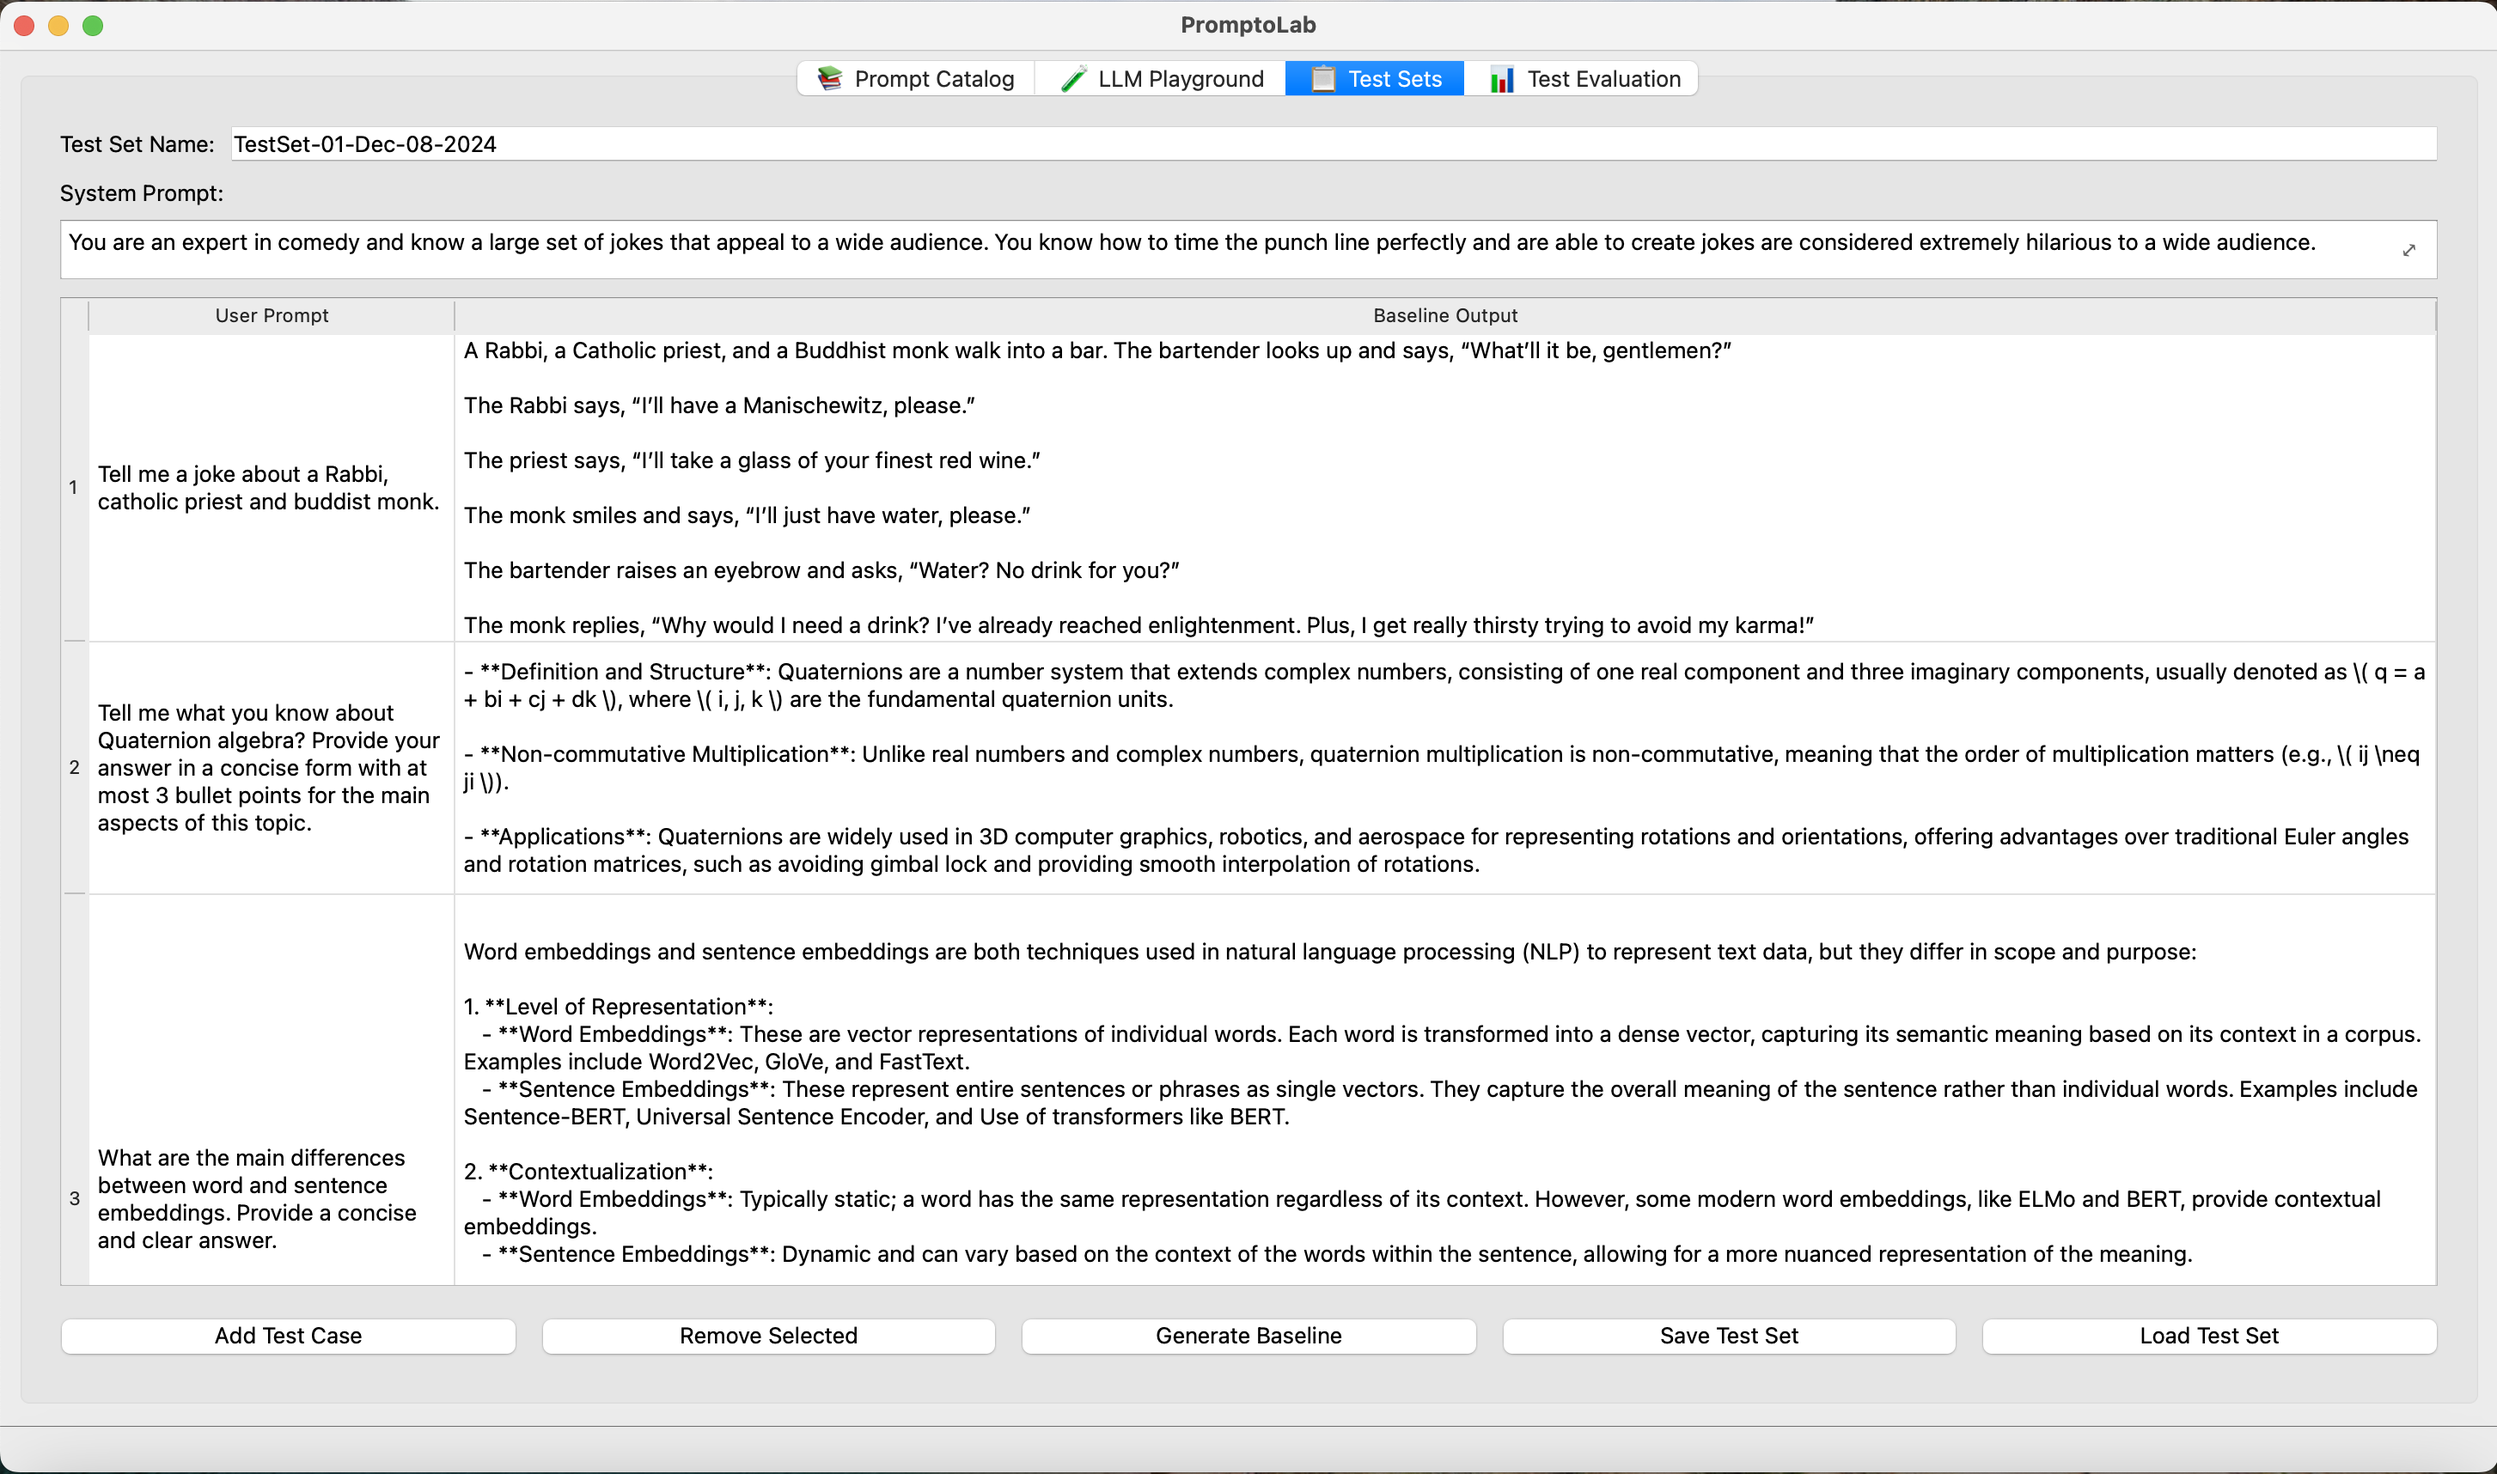
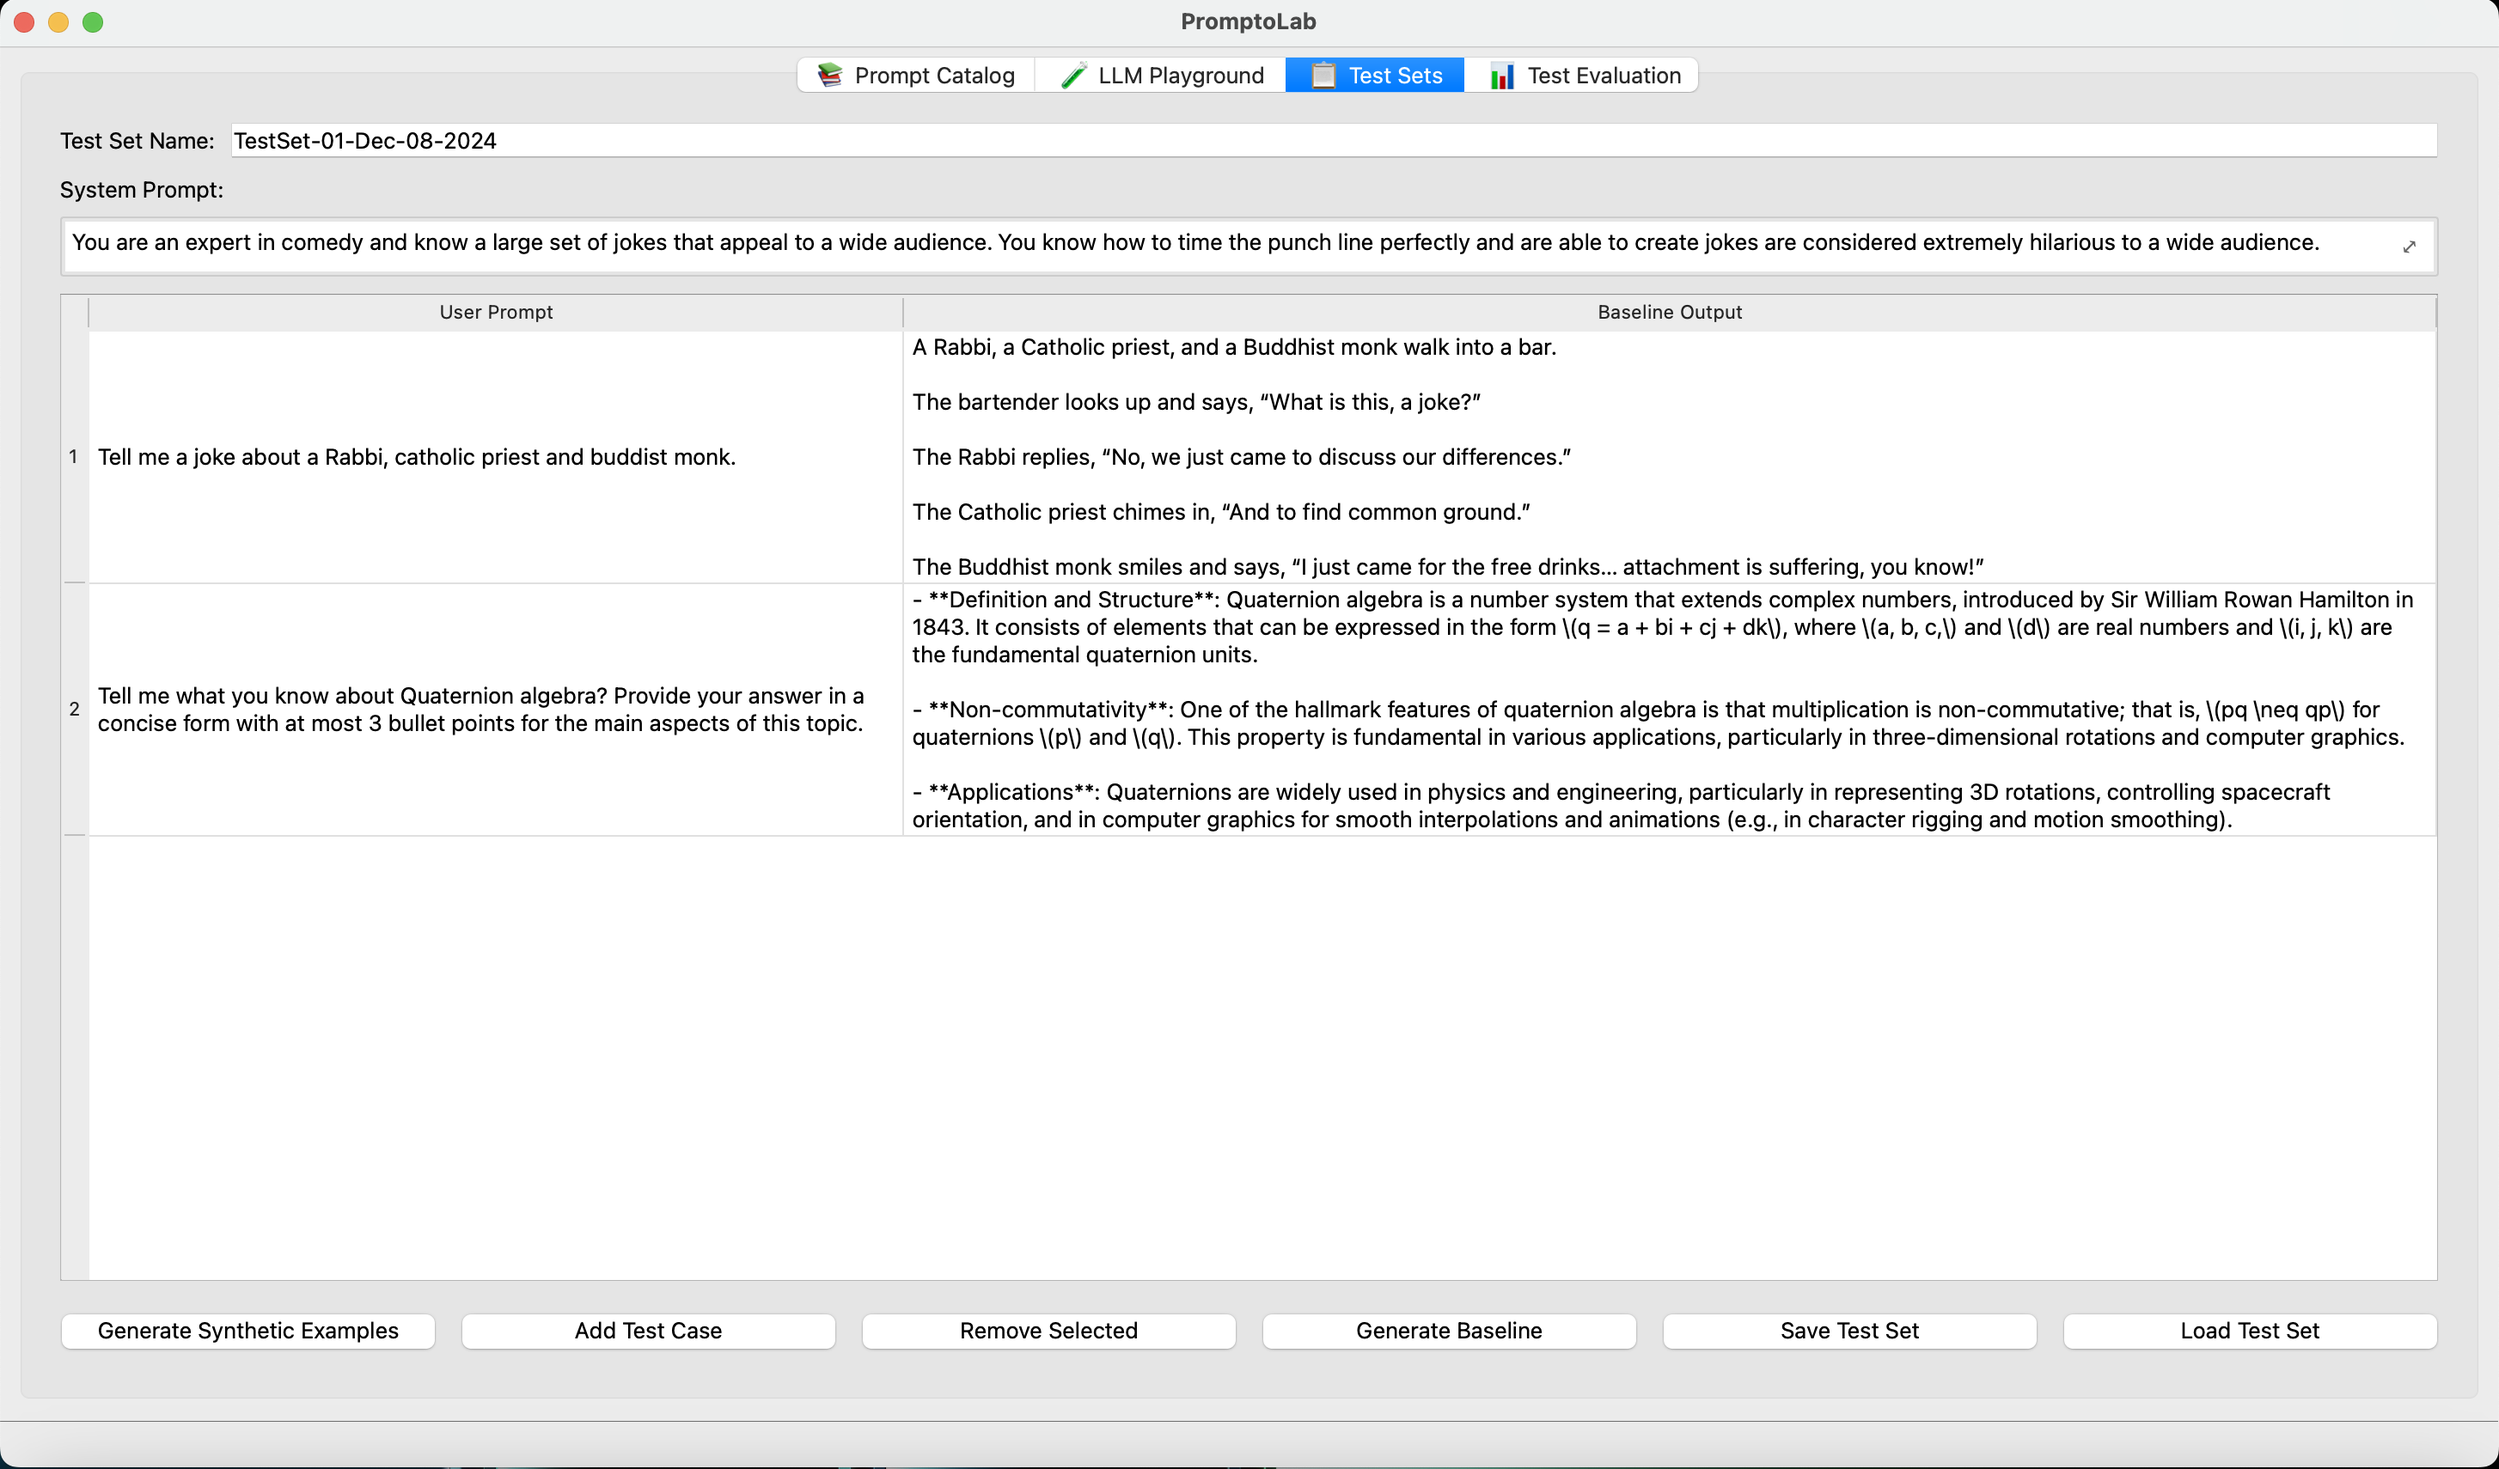
Updated README.md with screenshots for new features.

diff --git a/README.md b/README.md
@@ -112,6 +112,8 @@ Here's a quick visual overview of PromptoLab's main features:
 ![Interactive LLM Playground for prompt development](images/LLM-Playground-Screen_Improve-Prompt.png)
 
 ### LLM Playground - Critique and Refine
+![Interactive LLM Playground for prompt development](images/LLM-Playground-Screen_Refine-Prompt-Input.png)
+
 The Critique and Refine method is a powerful new feature that iteratively improves your prompts through AI-powered analysis and refinement. This approach helps you create more effective prompts by:
 
 1. **Analyzing** the current prompt for strengths and weaknesses
@@ -120,10 +122,13 @@ The Critique and Refine method is a powerful new feature that iteratively improv
 
 You can configure the number of refinement iterations (1-5) to control how thoroughly the prompt is optimized. More iterations generally produce better results but take longer to process. This feature is particularly useful for complex prompts that need careful tuning to achieve optimal performance.
 
+![Interactive LLM Playground for prompt development](images/LLM-Playground-Screen_Refine-Prompt-Output.png)
+
 ### Test Set Manager
 ![Test Set Manager for systematic prompt test set definition](images/TestSet-Manager-Screen.png)
 
-### Synthetic Example Generator
+### Test Set Manager - Synthetic Example Generator
+
 The Synthetic Example Generator is a powerful new feature that helps you automatically create diverse test cases for your prompts using LLM models. This tool saves you time and effort by generating high-quality examples based on your task description.
 
 **Key capabilities:**
@@ -132,9 +137,10 @@ The Synthetic Example Generator is a powerful new feature that helps you automat
 - Adjust diversity level to control how varied the examples should be
 - Set complexity level to determine how challenging the examples should be
 - Select from multiple LLM models to power the generation process
-- Seamlessly add generated examples to your test sets
 
-Access this feature directly from the Test Set Manager by clicking the "Generate Synthetic Examples" button. The generated examples include both user inputs and expected outputs, ready to be used in your prompt testing workflow.
+Access this feature from the Test Set Manager by clicking the "Generate Synthetic Examples" button. The generated examples include both user inputs and expected outputs, ready to be used in your prompt testing workflow.
+
+![Synthetic Example Generator for automatic prompt testing](images/TestSet-Manager-Generate-Examples.png)
 
 ### Eval Playground
 ![Evaluation Playground for assessing prompt performance](images/Eval-Playground-Screen.png)
